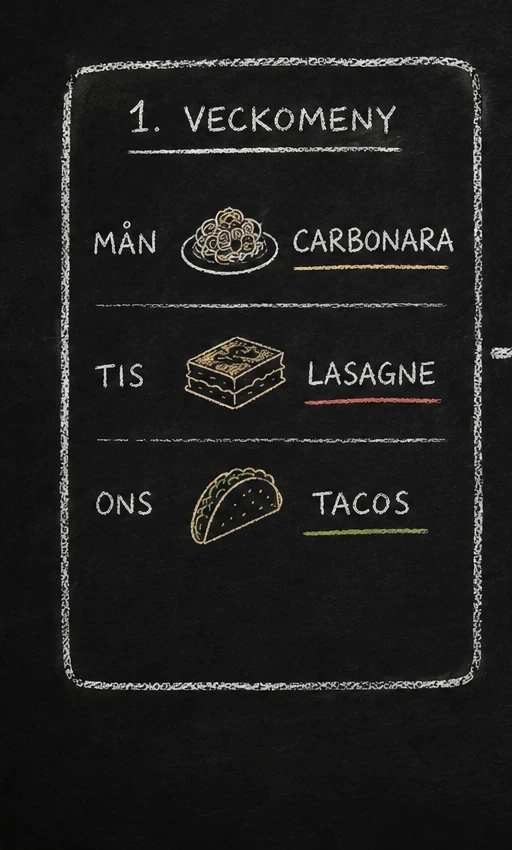
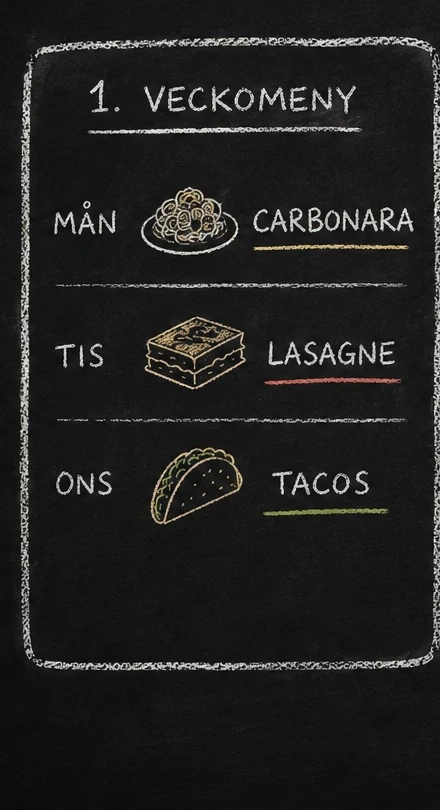
Landningssida mobil: vertikal stapel av rena box-paneler (skrota karusell)
Karusellen var trasig (swipe funkade ej på webb, cropparna klippte boxarna, pilarna
försvann). Nu: boxarna tightare beskurna (rena, utan pil-fragment) och staplade
VERTIKALT på mobil — naturlig scroll som alltid funkar, numren 1/2/3 visar ordningen.
Bred skärm: hela bilden som förut.

Changed region(s): [[0.0295, 0.0309, 1.0, 0.8333], [0.5909, 0.5556, 0.8864, 0.6481], [0.5023, 0.4938, 0.5318, 0.5247]]

diff --git a/app/src/components/WebLanding.tsx b/app/src/components/WebLanding.tsx
@@ -1,4 +1,4 @@
-import { useMemo, useState } from 'react';
+import { useMemo } from 'react';
 import { Image, Pressable, ScrollView, StyleSheet, Text, View, useWindowDimensions } from 'react-native';
 import { useRouter } from 'expo-router';
 import { landing as str } from '../lib/svenska';
@@ -17,7 +17,7 @@ const BOARD_PANELS = [
   require('../../assets/koncept-board-2.webp'),
   require('../../assets/koncept-board-3.webp'),
 ];
-const PANEL_RATIO = 512 / 850;
+const PANEL_RATIO = 440 / 810;
 
 const BRAND = {
   greenDark: '#2f5340',
@@ -88,7 +88,11 @@ export function WebLanding() {
           <Text style={s.boardHeading}>{str.flow.heading}</Text>
           <View style={s.boardUnderline} />
           {narrow ? (
-            <BoardCarousel s={s} />
+            <View style={s.panelStack}>
+              {BOARD_PANELS.map((p, i) => (
+                <Image key={i} source={p} style={s.panel} resizeMode="contain" accessibilityLabel={str.flow.alt} />
+              ))}
+            </View>
           ) : (
             <Image
               source={BOARD}
@@ -143,33 +147,6 @@ export function WebLanding() {
   );
 }
 
-// Swipe-karusell (mobil): en krittavle-panel i taget + prick-indikatorer.
-function BoardCarousel({ s }: { s: ReturnType<typeof makeStyles> }) {
-  const [w, setW] = useState(0);
-  const [page, setPage] = useState(0);
-  return (
-    <View style={{ width: '100%' }} onLayout={e => setW(e.nativeEvent.layout.width)}>
-      <ScrollView
-        horizontal
-        pagingEnabled
-        showsHorizontalScrollIndicator={false}
-        scrollEventThrottle={16}
-        onScroll={e => { if (w) setPage(Math.round(e.nativeEvent.contentOffset.x / w)); }}
-        style={{ borderRadius: 14, overflow: 'hidden' }}
-      >
-        {w > 0 && BOARD_PANELS.map((p, i) => (
-          <Image key={i} source={p} style={{ width: w, aspectRatio: PANEL_RATIO }} resizeMode="contain" accessibilityLabel={str.flow.alt} />
-        ))}
-      </ScrollView>
-      <View style={s.dots}>
-        {BOARD_PANELS.map((_, i) => (
-          <View key={i} style={[s.dot, page === i && s.dotActive]} />
-        ))}
-      </View>
-    </View>
-  );
-}
-
 const makeStyles = (narrow: boolean) => StyleSheet.create({
   nav: { backgroundColor: BRAND.creme, borderBottomWidth: 1, borderBottomColor: BRAND.line },
   navInner: { width: '100%', maxWidth: 1040, alignSelf: 'center', paddingHorizontal: 20, paddingVertical: 14, flexDirection: 'row', alignItems: 'center', justifyContent: 'space-between' },
@@ -206,9 +183,8 @@ const makeStyles = (narrow: boolean) => StyleSheet.create({
   boardUnderline: { width: 90, height: 3, borderRadius: 2, backgroundColor: 'rgba(230,201,168,0.7)', marginTop: 14, marginBottom: narrow ? 26 : 36 },
   boardImg: { width: '100%', maxWidth: 960, aspectRatio: BOARD_RATIO, borderRadius: 14, alignSelf: 'center' },
   boardCaption: { fontSize: narrow ? 15 : 16, lineHeight: 24, color: BRAND.chalkMute, textAlign: 'center', marginTop: narrow ? 22 : 30, maxWidth: 560 },
-  dots: { flexDirection: 'row', gap: 8, justifyContent: 'center', marginTop: 16 },
-  dot: { width: 8, height: 8, borderRadius: 4, backgroundColor: 'rgba(242,237,225,0.28)' },
-  dotActive: { width: 20, backgroundColor: BRAND.chalkTerra },
+  panelStack: { width: '100%', maxWidth: 420, alignSelf: 'center', gap: 18 },
+  panel: { width: '100%', aspectRatio: PANEL_RATIO, borderRadius: 12 },
 
   ctaBand: { backgroundColor: BRAND.green, paddingHorizontal: 20, paddingVertical: narrow ? 44 : 64 },
   ctaBandInner: { width: '100%', maxWidth: 720, alignSelf: 'center', alignItems: 'center' },
